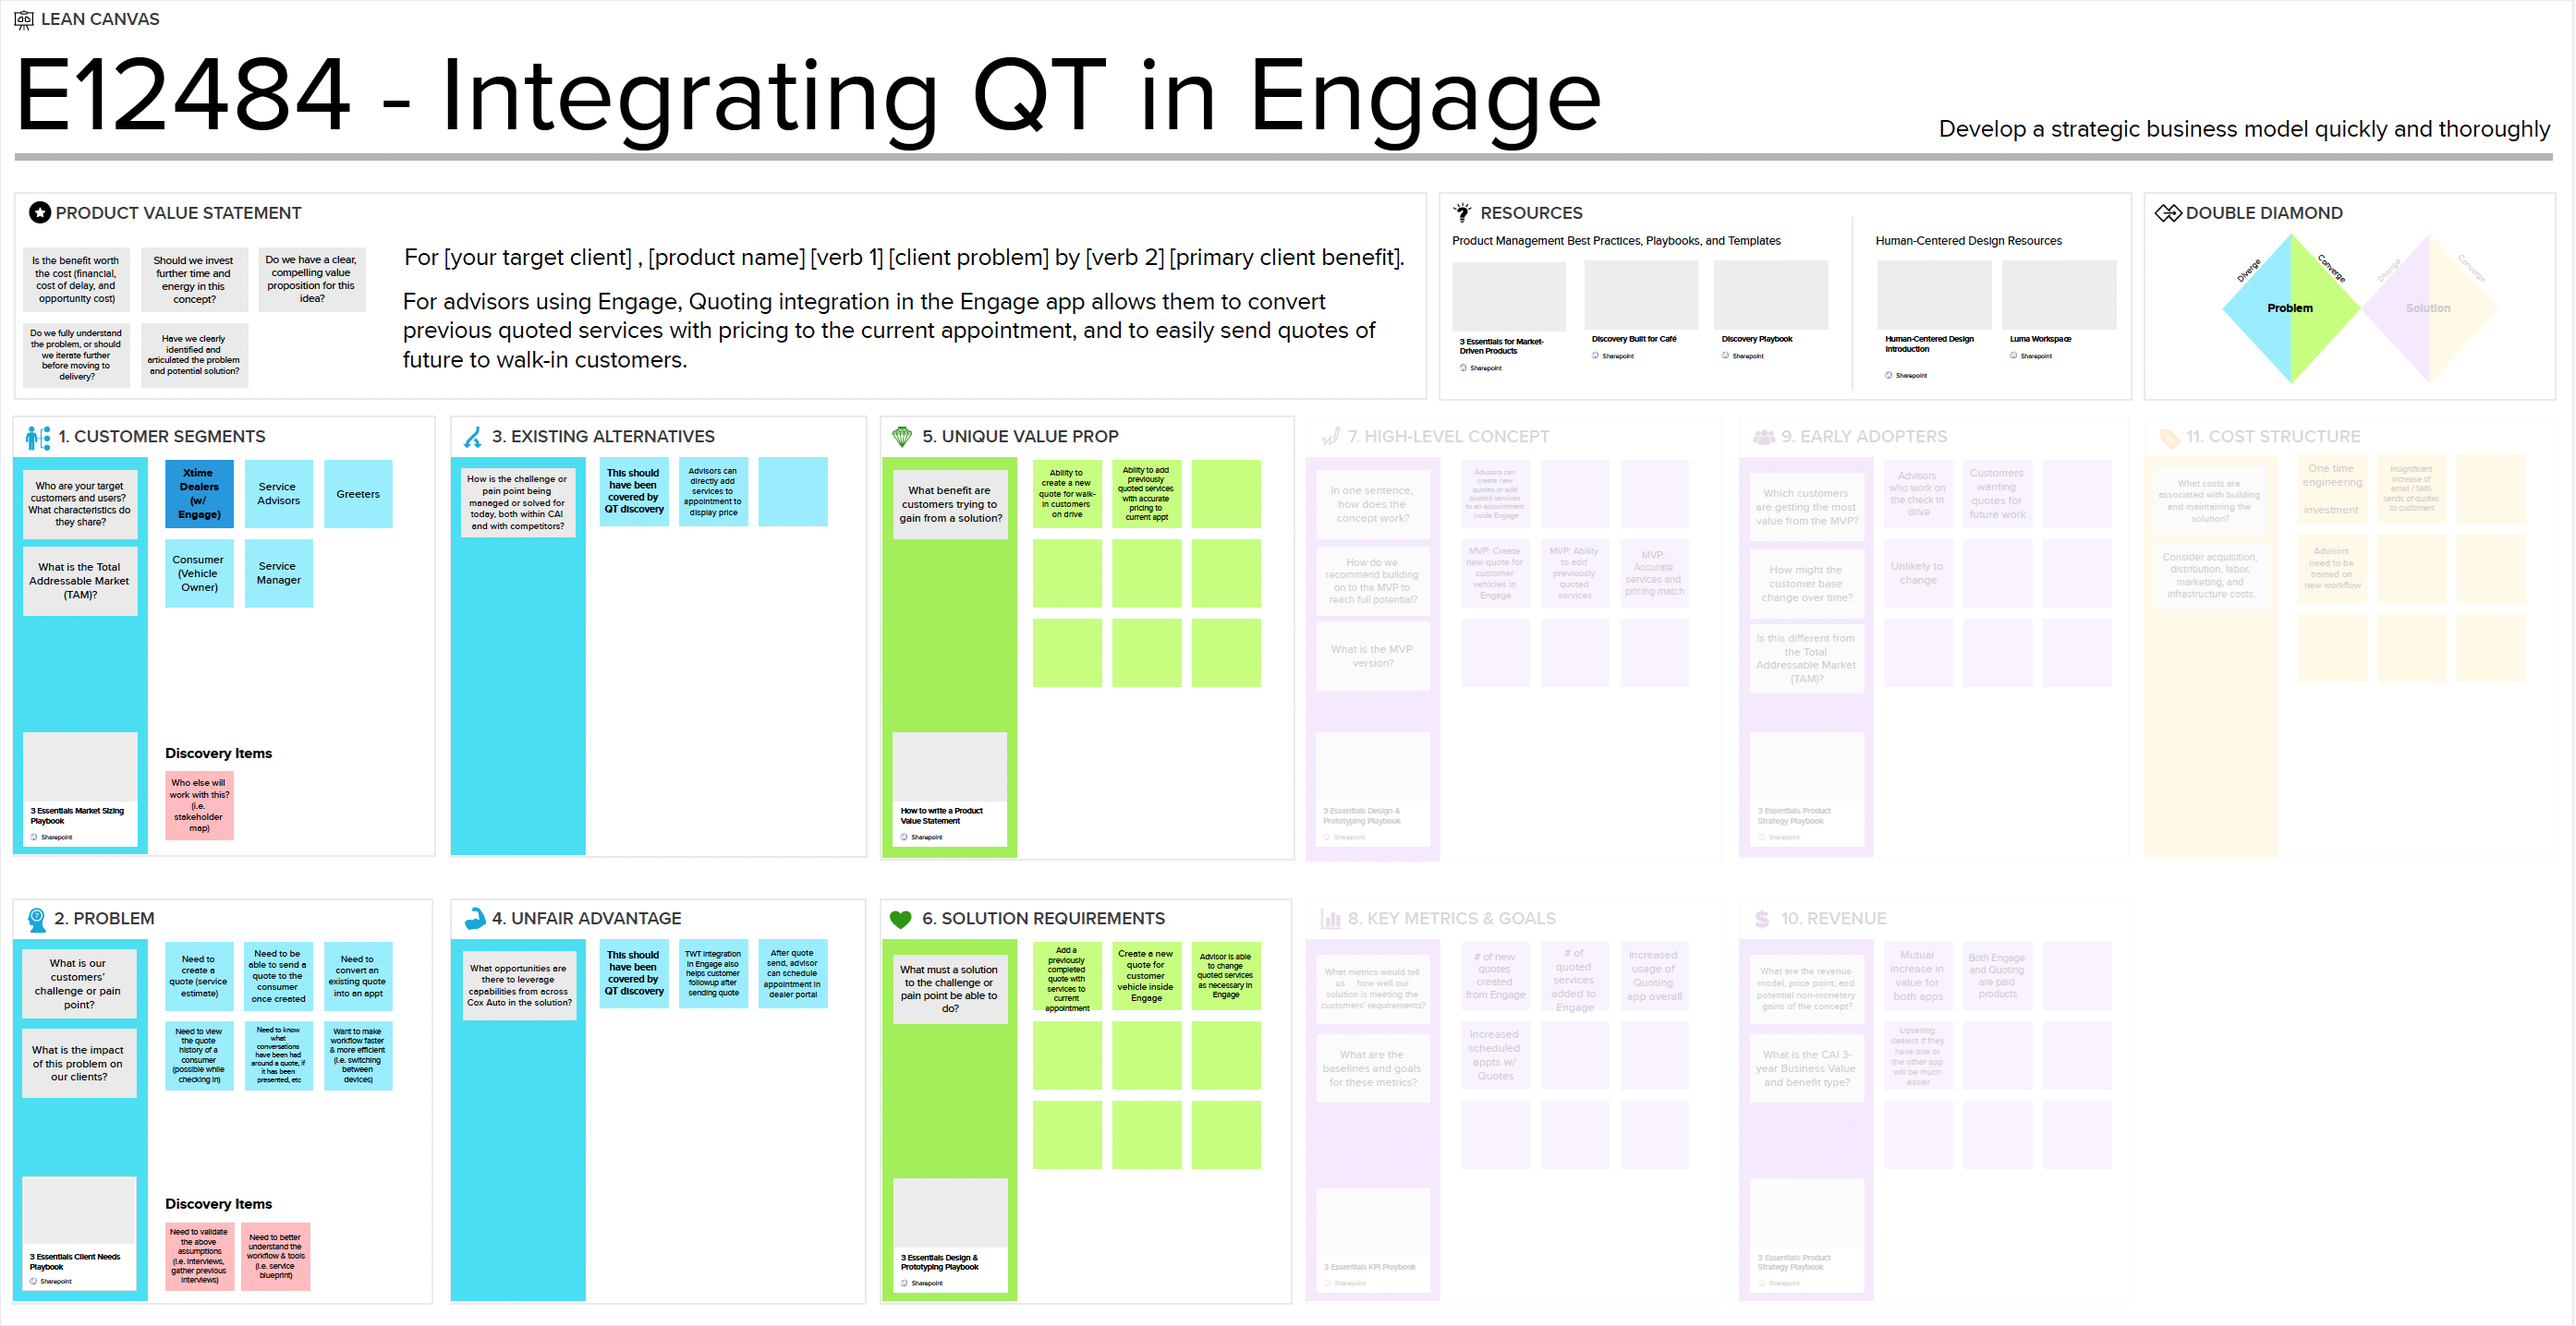
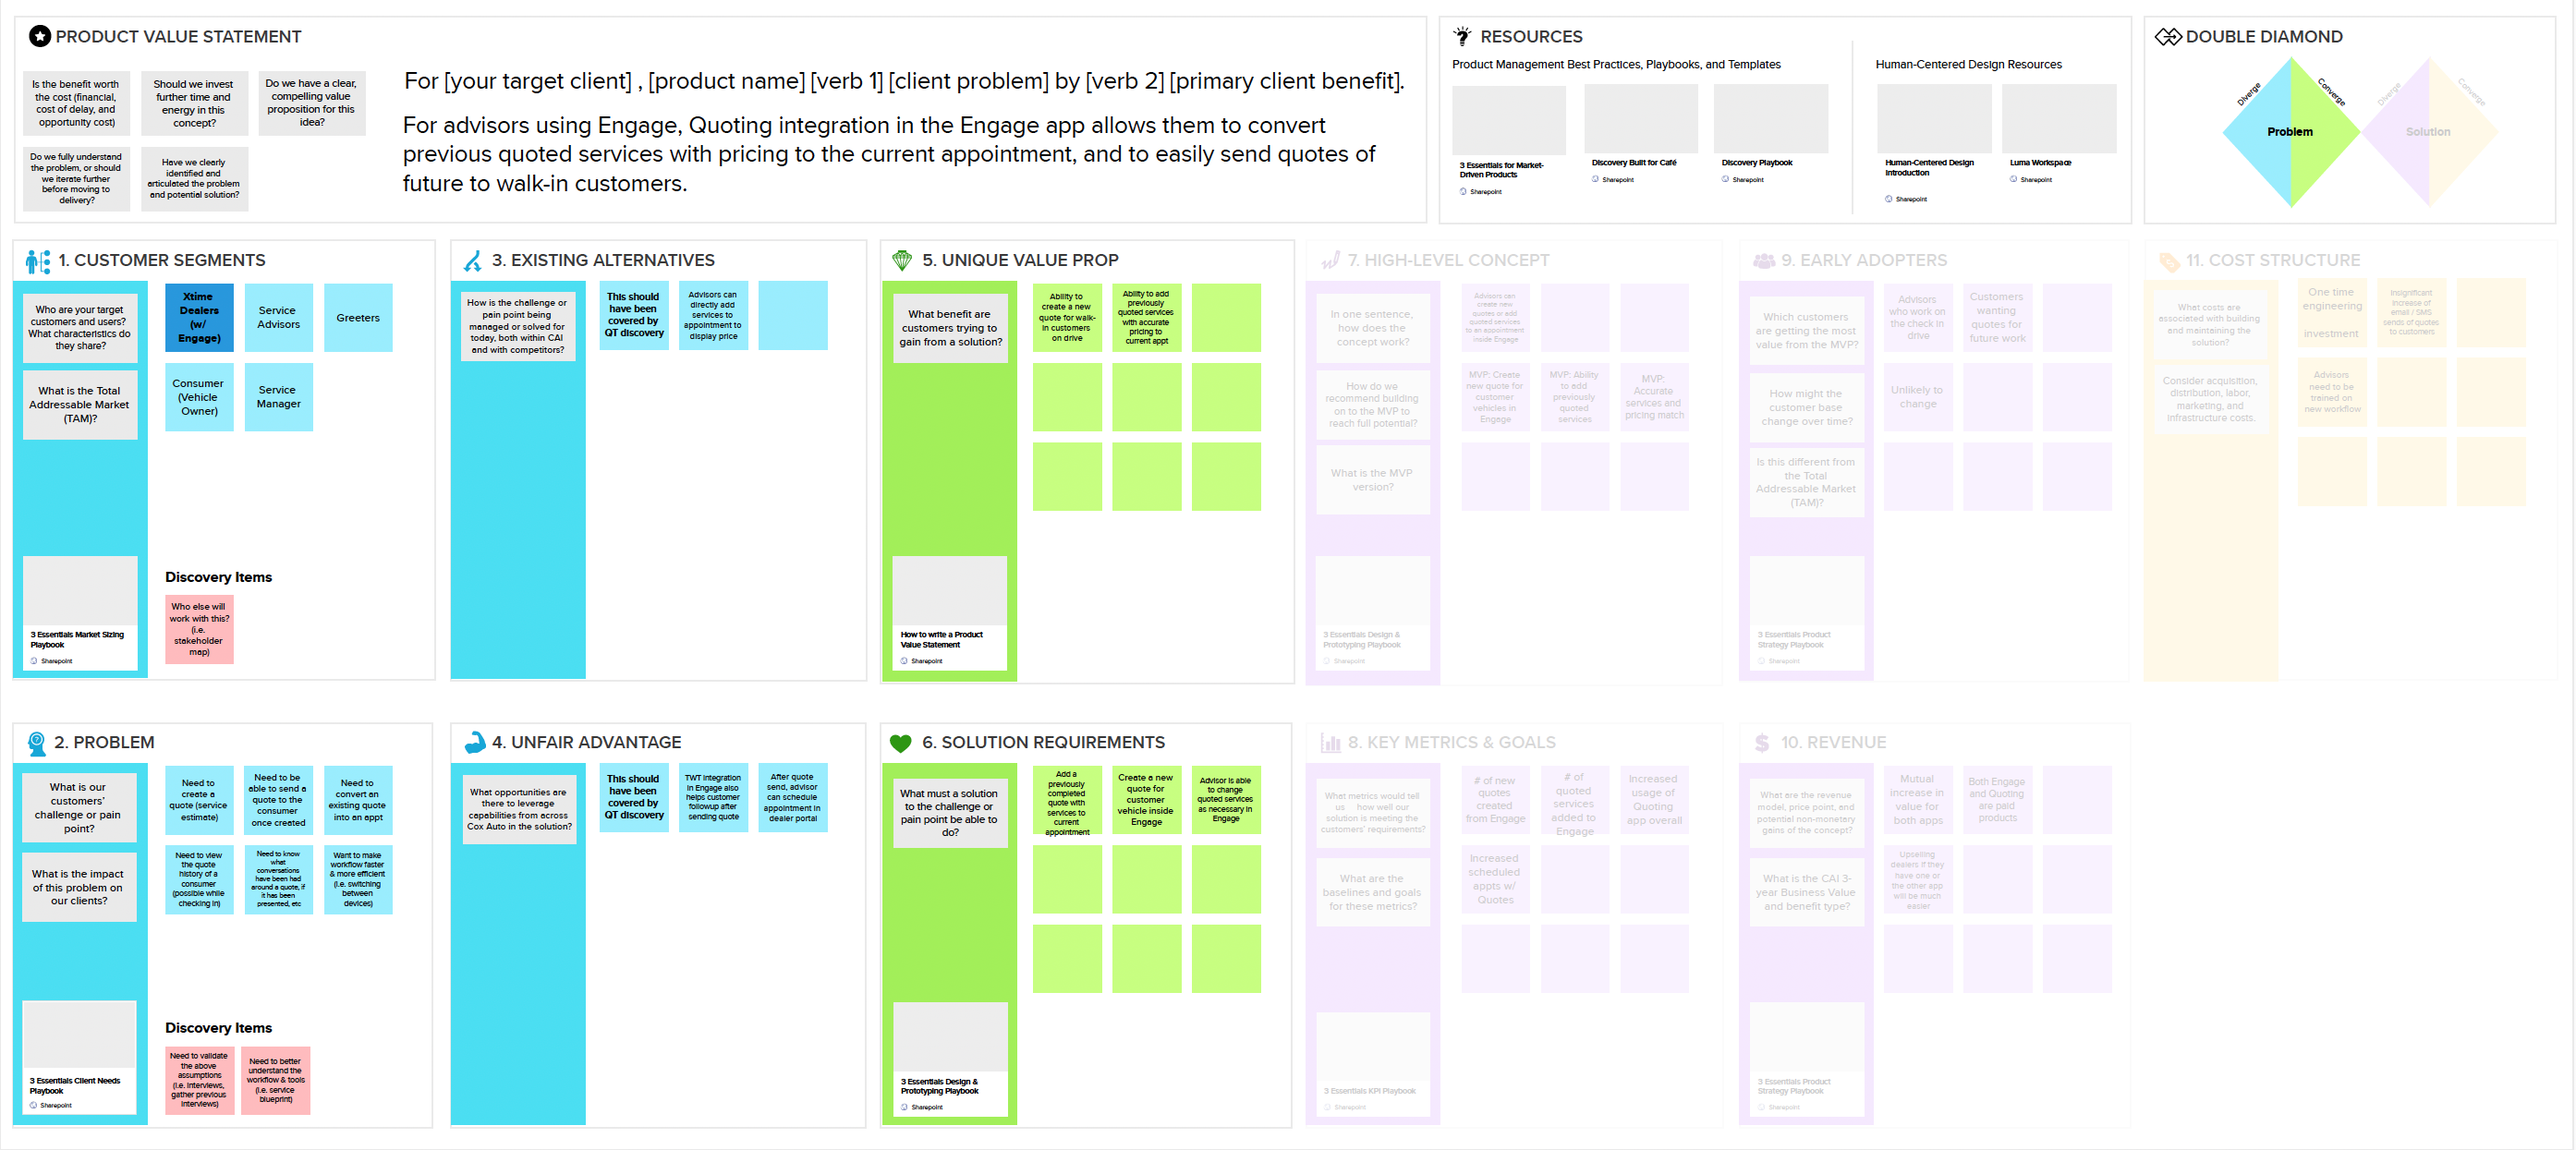
Content Edits
Updated title, trimmed down text, and updated images

diff --git a/case-study-engage-qt.html b/case-study-engage-qt.html
@@ -1,6 +1,6 @@
 ---
 layout:           default
-title_meta:       "Case Study: Quoting on Engage | Alchemy by Leban Hyde"
+title_meta:       "Case Study: Service Quoting on Engage | Alchemy by Leban Hyde"
 featured_image:   /img/hero-engage-qt.jpg
 description:      "How a standalone quoting tool was integrated into the check-in experience on tablet."
 excerpt:          "How a standalone quoting tool was integrated into the check-in experience on tablet."
@@ -10,7 +10,7 @@ excerpt:          "How a standalone quoting tool was integrated into the check-i
   <div class="panel panel--int panel--engage-qt" role="banner">
     <div class="l-constrain panel__bd panel__bd--bnr">
       <h1 class="txt-c">
-        Engage + Quoting
+        Service Quoting
       </h1>
     </div>
   </div>
@@ -58,16 +58,12 @@ excerpt:          "How a standalone quoting tool was integrated into the check-i
           <h2>Overview</h2>
 
           <p>
-            <i>Service Quoting</i> is a dealer-facing tool built as part of the Xtime platform, designed to enable Service Department users to create detailed estimates with accurate pricing. Part of the success of this product hinges on its integration with other apps within the product ecosystem. The ask was to integrate the tool with <i>Engage</i>, a tablet-based app for expediting the check-in process for service appointments.
+            <i>Service Quoting</i> is a dealer-facing tool built as part of the Xtime platform, designed to enable Service Department users to create detailed estimates. The ask was to integrate the tool with <i>Engage</i>, a tablet-based app for expediting the check-in process for service appointments.
           </p>
 
           <br />
 
           <h3>Challenges</h3>
-
-          <p>
-            Every project comes with its own set of challenges and complexity, and this one was no different. Some of the high level challenges worth noting:
-          </p>
 
           <ul>
             <li>Cross-product integration</li>
@@ -121,9 +117,7 @@ excerpt:          "How a standalone quoting tool was integrated into the check-i
           </p>
 
           <figure class="txt-c">
-            <a href="/img/case-studies/engage-qt-lean-canvas-problem.png">
-              <img class="is-scalable-max" src="/img/case-studies/engage-qt-lean-canvas-problem.png" alt="Lean Canvas, problem discovery | Engage + Quoting" />
-            </a>
+            <img class="is-scalable-max" src="/img/case-studies/engage-qt-lean-canvas-problem.png" alt="Lean Canvas, problem discovery | Engage + Quoting" />
 
             <figcaption class="txt-5">
               The problem discovery sections of the Lean Canvas
@@ -146,9 +140,7 @@ excerpt:          "How a standalone quoting tool was integrated into the check-i
           <div class="l-row">
             <div class="l-col l-col--6-12">
               <figure class="txt-c">
-                <a href="/img/case-studies/engage-qt-survey-questions.png">
-                  <img class="is-scalable-max" src="/img/case-studies/engage-qt-survey-questions.png" alt="Survey questions | Engage + Quoting" />
-                </a>
+                <img class="is-scalable-max" src="/img/case-studies/engage-qt-survey-questions.png" alt="Survey questions | Engage + Quoting" />
 
                 <figcaption class="txt-5">
                   Survey questions
@@ -158,9 +150,7 @@ excerpt:          "How a standalone quoting tool was integrated into the check-i
 
             <div class="l-col l-col--6-12">
               <figure class="txt-c">
-                <a href="/img/case-studies/engage-qt-interview-script.png">
-                  <img class="is-scalable-max" src="/img/case-studies/engage-qt-interview-script.png" alt="Interview script | Engage + Quoting" />
-                </a>
+                <img class="is-scalable-max" src="/img/case-studies/engage-qt-interview-script.png" alt="Interview script | Engage + Quoting" />
 
                 <figcaption class="txt-5">
                   Interview script with high level notes
@@ -197,9 +187,7 @@ excerpt:          "How a standalone quoting tool was integrated into the check-i
           </p>
 
           <figure class="txt-c">
-            <a href="/img/case-studies/engage-qt-lean-canvas-solution.png">
-              <img class="is-scalable-max" src="/img/case-studies/engage-qt-lean-canvas-solution.png" alt="Lean Canvas, solution discovery | Engage + Quoting" />
-            </a>
+            <img class="is-scalable-max" src="/img/case-studies/engage-qt-lean-canvas-solution.png" alt="Lean Canvas, solution discovery | Engage + Quoting" />
 
             <figcaption class="txt-5">
               The solution discovery sections of the Lean Canvas
@@ -249,9 +237,7 @@ excerpt:          "How a standalone quoting tool was integrated into the check-i
           </p>
 
           <figure class="txt-c">
-            <a href="/img/case-studies/engage-qt-taskflow-1.png">
-              <img class="is-scalable-max" src="/img/case-studies/engage-qt-taskflow-1.png" alt="Potential task flow for Engage tablet app | Engage + Quoting" />
-            </a>
+            <img class="is-scalable-max" src="/img/case-studies/engage-qt-taskflow-1.png" alt="Potential task flow for Engage tablet app | Engage + Quoting" />
 
             <figcaption class="txt-5">
               Potential task flow for Engage, future integration with Quoting
@@ -263,9 +249,7 @@ excerpt:          "How a standalone quoting tool was integrated into the check-i
           </p>
 
           <figure class="txt-c">
-            <a href="/img/case-studies/engage-qt-taskflow-2.png">
-              <img class="is-scalable-max" src="/img/case-studies/engage-qt-taskflow-2.png" alt="Current task flow for Scheduler desktop app | Engage + Quoting" />
-            </a>
+            <img class="is-scalable-max" src="/img/case-studies/engage-qt-taskflow-2.png" alt="Current task flow for Scheduler desktop app | Engage + Quoting" />
 
             <figcaption class="txt-5">
               Current task flow for Scheduler app, prior integration with Quoting
@@ -310,9 +294,7 @@ excerpt:          "How a standalone quoting tool was integrated into the check-i
           </p>
 
           <figure class="txt-c">
-            <a href="/img/case-studies/engage-qt-screenflow-current.png">
-              <img class="is-scalable-max" src="/img/case-studies/engage-qt-screenflow-current.png" alt="Current screen flow for Engage tablet app | Engage + Quoting" />
-            </a>
+            <img class="is-scalable-max" src="/img/case-studies/engage-qt-screenflow-current.png" alt="Current screen flow for Engage tablet app | Engage + Quoting" />
 
             <figcaption class="txt-5">
               Current screen flow for Engage app addressing primary workflows for users
@@ -336,9 +318,7 @@ excerpt:          "How a standalone quoting tool was integrated into the check-i
           </p>
 
           <figure class="txt-c">
-            <a href="/img/case-studies/engage-qt-ui-audit-1.png">
-              <img class="is-scalable-max" src="/img/case-studies/engage-qt-ui-audit-1.png" alt="UI Audit, Part 1 | Engage + Quoting" />
-            </a>
+            <img class="is-scalable-max" src="/img/case-studies/engage-qt-ui-audit-1.png" alt="UI Audit, Part 1 | Engage + Quoting" />
 
             <figcaption class="txt-5">
               Preliminary UI audit to assess compatibility with tablets
@@ -346,9 +326,7 @@ excerpt:          "How a standalone quoting tool was integrated into the check-i
           </figure>
 
           <figure class="txt-c">
-            <a href="/img/case-studies/engage-qt-ui-audit-2.png">
-              <img class="is-scalable-max" src="/img/case-studies/engage-qt-ui-audit-2.png" alt="UI Audit, Part 2 | Engage + Quoting" />
-            </a>
+            <img class="is-scalable-max" src="/img/case-studies/engage-qt-ui-audit-2.png" alt="UI Audit, Part 2 | Engage + Quoting" />
 
             <figcaption class="txt-5">
               Deeper UI audit of tool to assess compatibility with tablets
@@ -398,9 +376,7 @@ excerpt:          "How a standalone quoting tool was integrated into the check-i
           </p>
 
           <figure class="txt-c">
-            <a href="/img/case-studies/engage-qt-screenflow-future.png">
-              <img class="is-scalable-max" src="/img/case-studies/engage-qt-screenflow-future.png" alt="Current screen flow for Engage tablet app | Engage + Quoting" />
-            </a>
+            <img class="is-scalable-max" src="/img/case-studies/engage-qt-screenflow-future.png" alt="Current screen flow for Engage tablet app | Engage + Quoting" />
 
             <figcaption class="txt-5">
               Future screen flow and wireframes highlighting touch points for Quoting Tool
@@ -414,9 +390,7 @@ excerpt:          "How a standalone quoting tool was integrated into the check-i
           </p>
 
           <figure class="txt-c">
-            <a href="/img/case-studies/engage-qt-checkin.png">
-              <img class="is-scalable-max" src="/img/case-studies/engage-qt-checkin.png" alt="Check-In screen with available service quotes | Engage + Quoting" />
-            </a>
+            <img class="is-scalable-max" src="/img/case-studies/engage-qt-checkin.png" alt="Check-In screen with available service quotes | Engage + Quoting" />
 
             <figcaption class="txt-5">
               Check-In screen with available service quotes, before & after adding
@@ -424,9 +398,7 @@ excerpt:          "How a standalone quoting tool was integrated into the check-i
           </figure>
 
           <figure class="txt-c">
-            <a href="/img/case-studies/engage-qt-view-quote.png">
-              <img class="is-scalable-max" src="/img/case-studies/engage-qt-view-quote.png" alt="Quote History and Quote Detail | Engage + Quoting" />
-            </a>
+            <img class="is-scalable-max" src="/img/case-studies/engage-qt-view-quote.png" alt="Quote History and Quote Detail | Engage + Quoting" />
 
             <figcaption class="txt-5">
               View Quote worflow from Quote History to Quote Detail
@@ -434,9 +406,7 @@ excerpt:          "How a standalone quoting tool was integrated into the check-i
           </figure>
 
           <figure class="txt-c">
-            <a href="/img/case-studies/engage-qt-modify-parts.png">
-              <img class="is-scalable-max" src="/img/case-studies/engage-qt-modify-parts.png" alt="Modify Parts with and without virtual keyboard open | Engage + Quoting" />
-            </a>
+            <img class="is-scalable-max" src="/img/case-studies/engage-qt-modify-parts.png" alt="Modify Parts with and without virtual keyboard open | Engage + Quoting" />
 
             <figcaption class="txt-5">
               Modify Parts workflow with focused input field and open virtual keyboard
@@ -456,9 +426,7 @@ excerpt:          "How a standalone quoting tool was integrated into the check-i
           </p>
 
           <figure class="txt-c">
-            <a href="/prototype-engage-qt/">
-              <img class="is-scalable-max" src="/img/case-studies/engage-qt-prototype.png" alt="Screenshot of interactive prototype | Engage + Quoting" />
-            </a>
+            <img class="is-scalable-max" src="/img/case-studies/engage-qt-prototype.png" alt="Screenshot of interactive prototype | Engage + Quoting" />
 
             <figcaption class="txt-5">
               Interactive prototype illustrating primary uses cases & workflows

diff --git a/work.html b/work.html
@@ -111,12 +111,12 @@ excerpt:          "Case studies and other collections of design work focusing on
       <div class="l-col l-col--4-12">
         <a class="card" href="/case-study-engage-qt.html">
           <div class="card__img">
-            <img class="is-scalable-max" src="/img/case-studies/engage-qt-case-t.jpg" alt="Task flows of Engage + Quoting integration" />
+            <img class="is-scalable-max" src="/img/case-studies/engage-qt-case-t.jpg" alt="Task flows of Service Quoting integration" />
           </div>
 
           <div class="card__bd">
             <h3 class="txt-tight-t">
-              Case Study: Engage + Quoting          
+              Case Study: Service Quoting          
             </h3>
 
             <p class="txt-tight-b">
